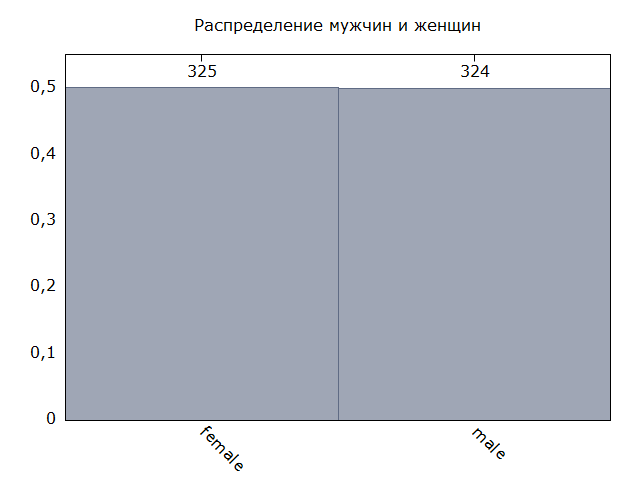
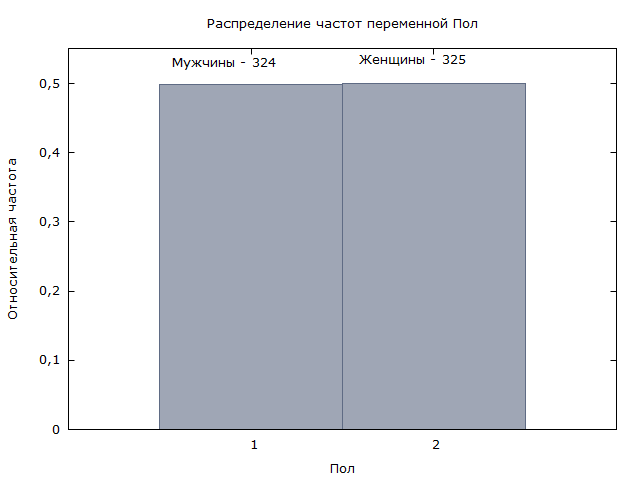
description of bmi and sex added

diff --git a/[output]/main.tex b/[output]/main.tex
@@ -77,7 +77,7 @@
 	\label{fig:charges}
 \end{figure}
 
-График гистограммы на рис.\ref{fig:charges} для целевой переменной ассимметричен вправо. Это объясняется тем, что основная часть клиентов платит относительно средние суммы. Но есть и другая группа людей с повышенными медицинскими рисками, их не так много, но цена страховки для них выше. Хвост распределния очень длинный, это объясняется тем, что наблюдается большая вариативность в стоимости страховки. Есть выбросы с заметно большей стоимостью медицинской страховки, их доля очень мала. Полимодальности нет, естественной группировки нет.
+На основании анализа гистограммы рис.\ref{fig:charges} и описательных статистик табл.\ref{tab:table2} следует сделать вывод о том, что распределение целевой переменной ассимметрично вправо. Это объясняется тем, что основная часть клиентов платит относительно средние суммы. Но есть и другая группа людей с повышенными медицинскими рисками, их не так много, но цена страховки для них выше. Хвост распределния очень длинный, это объясняется тем, что наблюдается большая вариативность в стоимости страховки. Есть выбросы с заметно большей стоимостью медицинской страховки, их доля очень мала. Полимодальности нет, естественной группировки нет.
 
 \begin{figure}[h]
 	\includegraphics[width=0.6\textwidth]{../[graphics]/age.png}
@@ -86,7 +86,7 @@
 	\label{fig:age}
 \end{figure}
 
-Распределение возраста (рис. \ref{fig:age}) ассимметрично вправо. По виду гистограммы можно говорить о наличии двух кластеров: молодых людей в возрасте от 18 до 23 лет и людей, старше 23 лет. Респонденты в возрасте 18-23 лет резко выделяются, они широкопредставлены в выборке. Это отражает особенность системы страхования: у молодых людей заканчивается детская страховка и они массово оформляют взрослый вариант впервые. Остальные группы возрастов равнопредставленны. Это отражает свойство генеральной свокупности, а именно, что представители каждого возраста имеют одинаковый процент застрахованных, который практически неизменен, люди продлевают страховку из года в год. Группа людей в возрасте от 63 до 69 лет малопредставленна, что частично отражает свойство генеральной совокупности, так как часть людей не доживает до такого возраста. Также малопредставленность может быть обусловлена тем, что люди пожилого возраста не берут страховку, поскольку она для них дорогая и они не могут себе ее позволить. В свою очередь страховщики неохотно оформляют или оформляют по завышенной цене медицинскую страховку из-за больших рисков потерять средства. Полимодальности нет.
+Распределение возраста (рис. \ref{fig:age}, табл.\ref{tab:table2}) ассимметрично вправо. По виду гистограммы можно говорить о наличии двух кластеров: молодых людей в возрасте от 18 до 23 лет и людей, старше 23 лет. Респонденты в возрасте 18-23 лет резко выделяются, они широкопредставлены в выборке. Это отражает особенность системы страхования: у молодых людей заканчивается детская страховка и они массово оформляют взрослый вариант впервые. Остальные группы возрастов равнопредставленны. Это отражает свойство генеральной свокупности, а именно, что представители каждого возраста имеют одинаковый процент застрахованных, который практически неизменен, люди продлевают страховку из года в год. Группа людей в возрасте от 63 до 69 лет малопредставленна, что частично отражает свойство генеральной совокупности, так как часть людей не доживает до такого возраста. Также малопредставленность может быть обусловлена тем, что люди пожилого возраста не берут страховку, поскольку она для них дорогая и они не могут себе ее позволить. В свою очередь страховщики неохотно оформляют или оформляют по завышенной цене медицинскую страховку из-за больших рисков потерять средства. Полимодальности нет.
 
 \begin{figure}[h]
 	\includegraphics[width=0.6\textwidth]{../[graphics]/bmi.png}
@@ -95,45 +95,72 @@
 	\label{fig:bmi}
 \end{figure}
 
-\begin{table}[h!]
+На основании анализа гистограммы рис.\ref{fig:charges} и описательных статистик табл.\ref{tab:table2} следует сделать вывод о том, что распределение индекса массы тела близко к нормальному, с незначительной правосторонней асимметрией. Действительно, согласно последним исследованиям, среди американцев преобладают люди с избыточной массой тела. Ниже в табл.\ref{tab:bmi} представлена итерпретация ИМТ в соответсвии с рекомендациями ВОЗ.
+
+\begin{table}[H]
+	\begin{center}
+		\begin{tabular}{ | l | l |}
+			\hline
+			ИМТ & Интерпретация \\ \hline
+			Менее 18,5 & Дефицит массы тела \\ \hline
+			18,5 - 24,9 & Норма \\ \hline
+			25,0 - 29,9 & Избыточная масса тела \\ \hline
+			Более 30,0 & Ожирение \\ \hline
+		\end{tabular}
+	\end{center}
+	\caption{Интерпретация ИМТ в соответствии с рекомендациями ВОЗ.}
+	\label{tab:bmi}
+\end{table}
+
+Медиана и среднее нахордятся в диапазоне избыточной массы тела, что также подтвержает свойства генеральной совокупности.
+
+Кроме того, хорошо заметен выброс с аномально большой массой тела, что также согласуется с действительностью.
+
+\begin{table}[H]
 \begin{center}
-	Описательная статистика, использованы наблюдения 1--649\\
-	
-	\vspace{8pt}
-	
-	\begin{tabular}{lr@{,}lr@{,}lr@{,}lr@{,}l}
+	\begin{tabular}{|lr@{,}lr@{,}lr@{,}lr@{,}l|}
+		\hline
 		Переменная & \multicolumn{2}{c}{Среднее}
 		& \multicolumn{2}{c}{Медиана}
 		& \multicolumn{2}{c}{Минимум}
-		& \multicolumn{2}{c}{Максимум} \\[1ex]
+		& \multicolumn{2}{c|}{Максимум} \\[1ex]
+		\hline
 		age & 39&233 & 39&000 & 18&000 & 64&000\\
 		bmi & 29&187 & 28&880 & 15&960 & 48&070\\
+		children & 1&0971 & 1&0000 & 0&00000 & 5&0000\\
 		charges & 12911& & 9644&3 & 1621&3 & 60021&\\[10pt]
 		
+		\hline
 		Переменная &  \multicolumn{2}{c}{Ст.\ Откл.}
 		& \multicolumn{2}{c}{Вариация}
 		& \multicolumn{2}{c}{Асимметрия}
-		& \multicolumn{2}{c}{Эксцесс} \\[1ex]
+		& \multicolumn{2}{c|}{Эксцесс} \\[1ex]
+		\hline
 		age & 14&050 & 0&35811 & 0&051080 & $-$1&2547\\
 		bmi & 5&5467 & 0&19004 & 0&15599 & $-$0&25062\\
+		children & 1&1856 & 1&0807 & 0&79614 & $-$0&30309\\
 		charges & 11167& & 0&86488 & 1&5758 & 2&1084\\[10pt]
 		
+		\hline
 		Переменная &  \multicolumn{2}{c}{5\% проц.}
 		& \multicolumn{2}{c}{95\% проц.}
 		& \multicolumn{2}{c}{IQ Range}
-		& \multicolumn{2}{c}{Пропущенные наблюдения} \\[1ex]
-		age & 18&500 & 61&500 & 25&000 & \multicolumn{2}{c}{0}\\
-		bmi & 19&998 & 39&045 & 7&5525 & \multicolumn{2}{c}{0}\\
-		charges & 2135&9 & 39661& & 11043& & \multicolumn{2}{c}{0}\\
+		& \multicolumn{2}{c|}{Пропущенные наблюдения} \\[1ex]
+		\hline
+		age & 18&500 & 61&500 & 25&000 & \multicolumn{2}{c|}{0}\\
+		bmi & 19&998 & 39&045 & 7&5525 & \multicolumn{2}{c|}{0}\\
+		children & 0&00000 & 3&0000 & 2&0000 & \multicolumn{2}{c|}{0}\\
+		charges & 2135&9 & 39661& & 11043& & \multicolumn{2}{c|}{0}\\
+		\hline
 	\end{tabular}
-\caption{Основные статистики}
-\label{tab:stat}
 \end{center}
+\caption{Описательные статистики количественных переменных.}
+\label{tab:table2}
 \end{table}
 
 \subsubsection{Анализ качественных переменных}
 
-\begin{figure}[h]
+\begin{figure}[H]
 	\includegraphics[width=0.6\textwidth]{../[graphics]/smoker.png}
 	\centering
 	\caption{Наличие вредных привычек}
@@ -142,19 +169,14 @@
 
 По признаку наличия вредных привычек выборка не является сбалансированной (рис. \ref{fig:smoker}), что есть естественное свойство генеральной совокупности: в действительности некурящих людей больше, чем курящих. Агрегацию уровней проводить не требуется, группы курящих и некурящих людей не являются малопредставленными.
 
-\begin{figure}[h]
+\begin{figure}[H]
 	\includegraphics[width=0.6\textwidth]{../[graphics]/sex.png}
 	\centering
 	\caption{Пол}
 	\label{fig:sex}
 \end{figure}
 
-\begin{figure}[h]
-	\includegraphics[width=0.6\textwidth]{../[graphics]/region.png}
-	\centering
-	\caption{Регион}
-	\label{fig:region}
-\end{figure}
+Выборка сбалансирована по полу - представлено равное количество мужчин и женщин. Это отражает репрезентативность выборки.
 
 \subsection{Анализ статистической связи}
 
